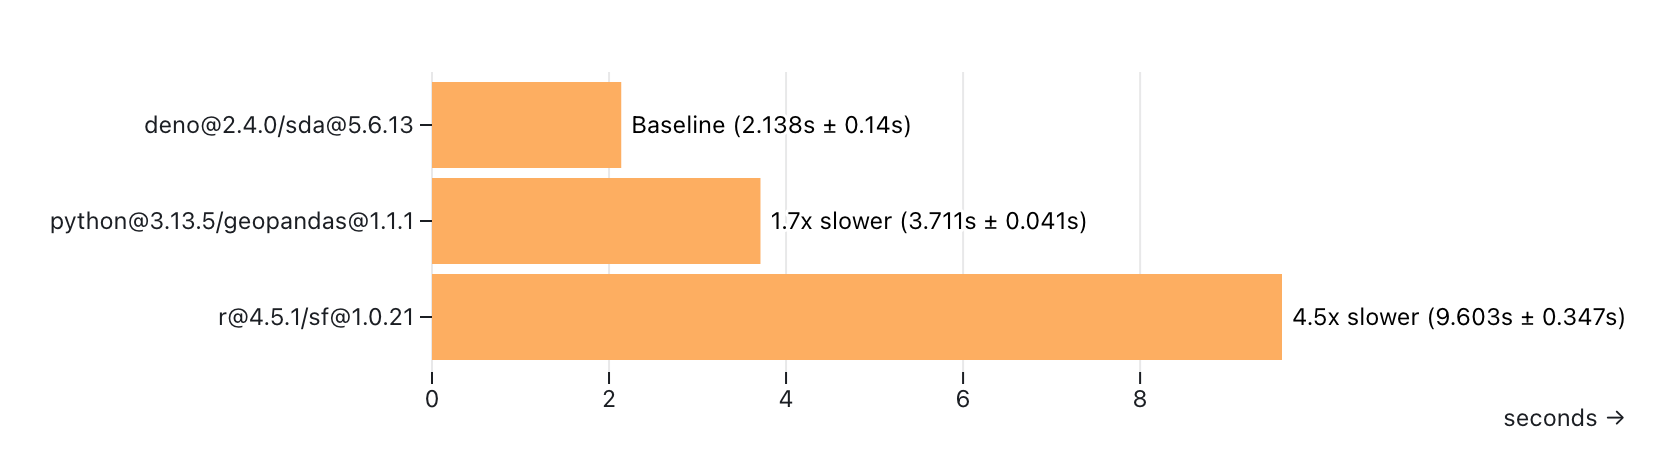
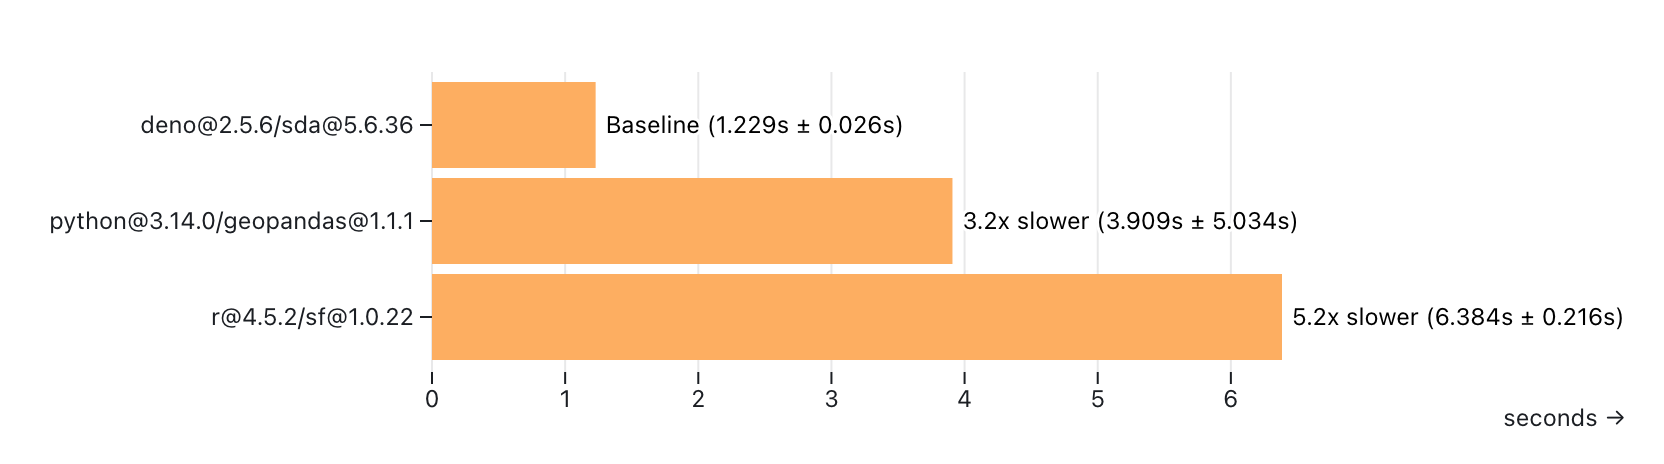
Updated

diff --git a/sda/main.ts b/sda/main.ts
@@ -10,7 +10,7 @@ for (let i = 0; i < 10; i++) {
   await trees.loadData("sda/data-raw/arbres-publics.csv", {
     ignoreErrors: true,
   });
-  await trees.filter(`Latitude IS NOT NULL AND Longitude IS NOT NULL`);
+  await trees.removeMissing({ columns: ["Latitude", "Longitude"] });
   await trees.points("Latitude", "Longitude", "geom");
 
   const neighbourhoods = sdb.newTable("neighbourhoods");
@@ -27,7 +27,8 @@ for (let i = 0; i < 10; i++) {
   });
   // await joined.logTable();
 
-  await sdb.done();
+  // Bug?
+  // await sdb.done();
 
   const end = Date.now();
   const duration = end - start;

diff --git a/main.py b/main.py
@@ -29,6 +29,6 @@ for i in range(10):
     end_time = time.time()
     duration = round((end_time - start_time) * 1000)
     print(f"Iteration {i+1}: {duration} ms")
-    csv_line = f"id,iteration,duration\npython@3.13.5/geopandas@1.1.1,{i+1},{duration}"
+    csv_line = f"id,iteration,duration\npython@3.14.0/geopandas@1.1.1,{i+1},{duration}"
     with open(f"output/python-{i+1}.csv", "w") as file:
         file.write(csv_line)

diff --git a/README.md b/README.md
@@ -3,7 +3,7 @@ geospatial computations with
 [simple-data-analysis](https://github.com/nshiab/simple-data-analysis) (Deno),
 GeoPandas (Python) and sf (R).
 
-Each script has been run ten times on a MacBook Pro (Apple M1 Pro / 16 GB).
+Each script has been run ten times on a MacBook Pro (Apple M4 Max / 64 GB).
 
 Here are the steps taken in each script:
 